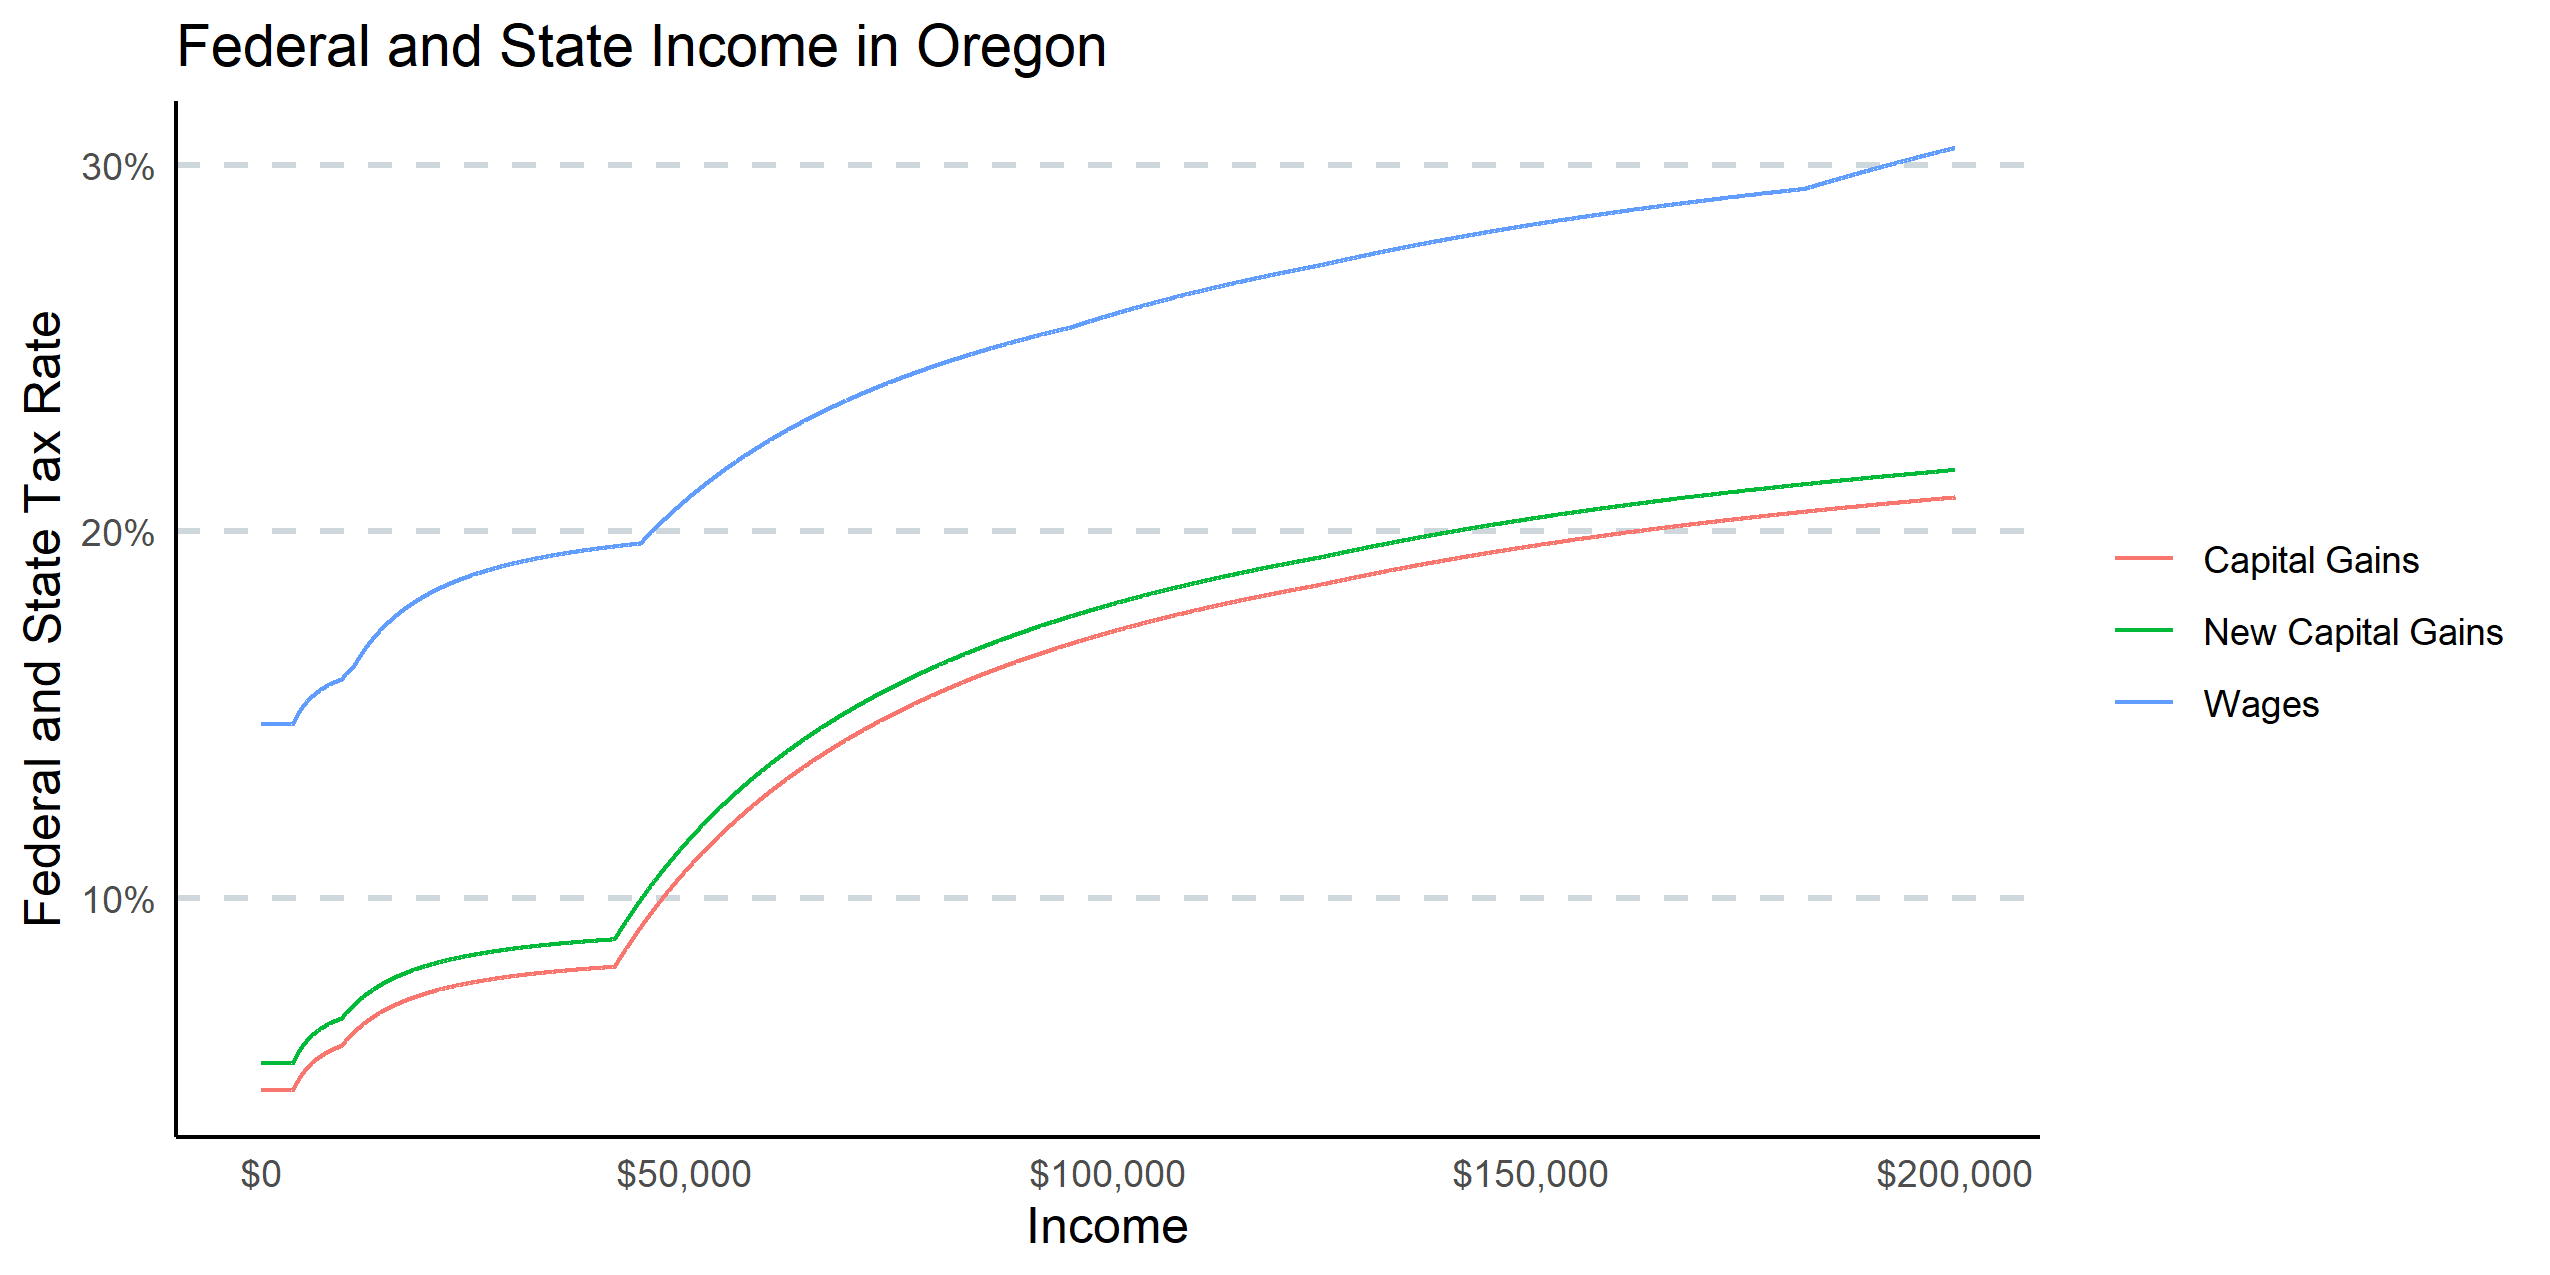
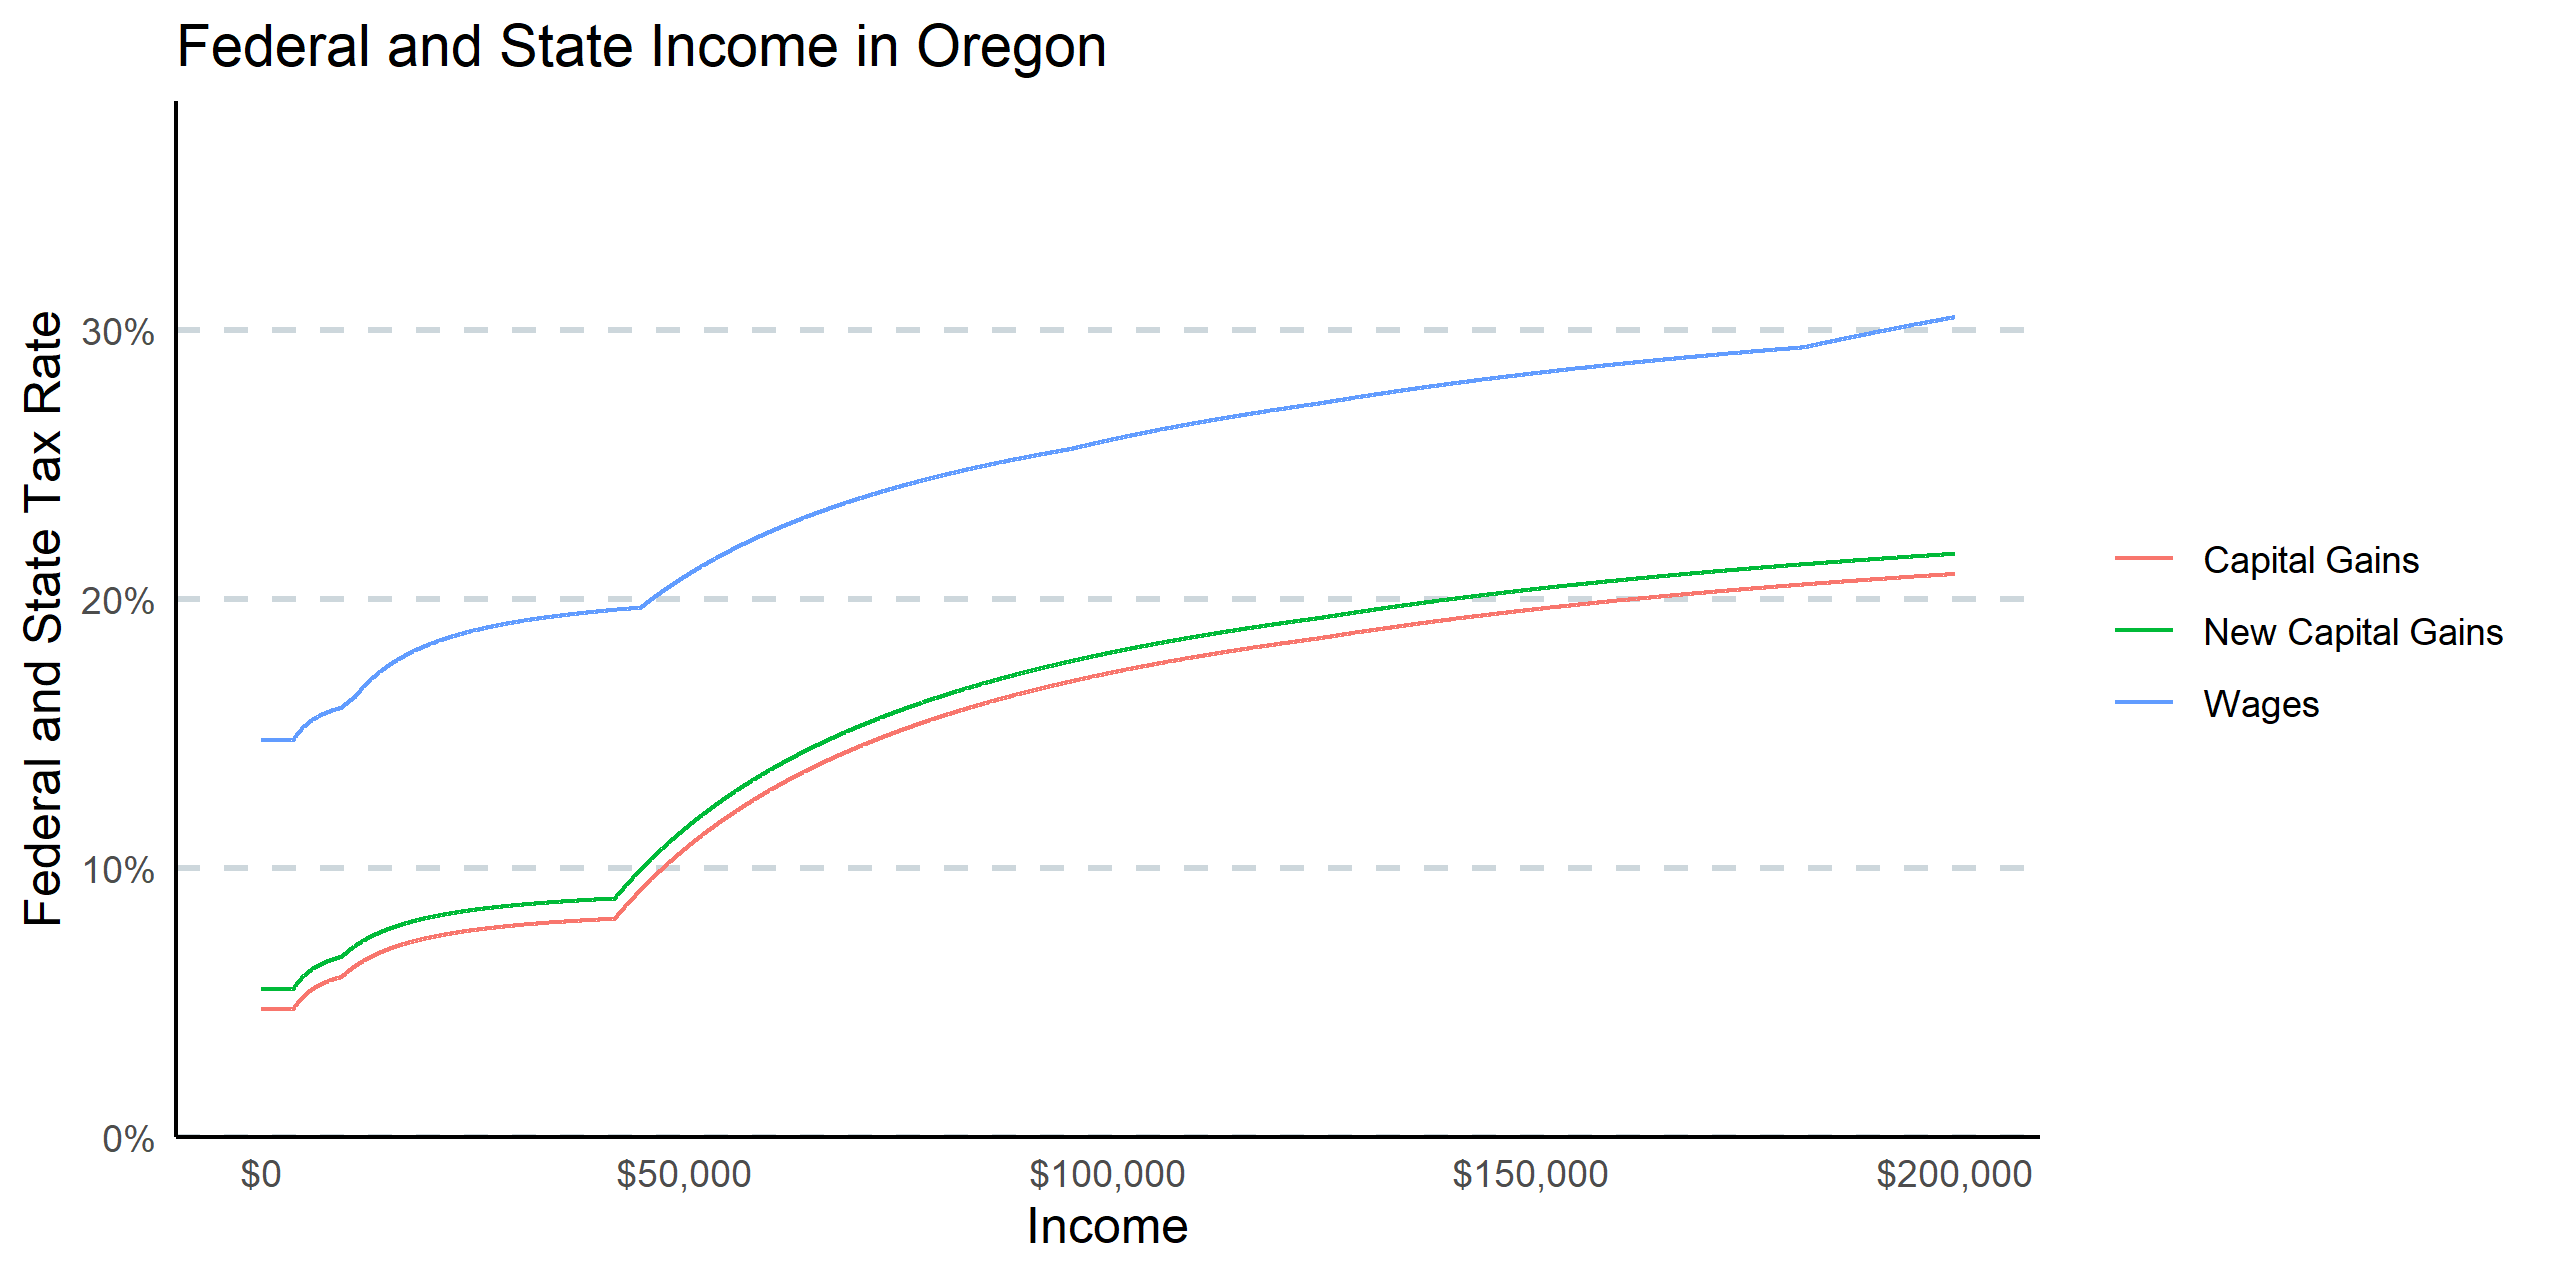
Added 0 to Y axis and added table to readme

diff --git a/README.md b/README.md
@@ -67,3 +67,27 @@ Note here that you see a green line as well. This is created by adding the ERA t
 #### The Graphic
 
 The graphic above is created using R with the `tidyverse` and `here` packages. The percent of income is calculated at each dollar amount that appears on the x-axis. The script is in the `Tax Percent by Tax Brackets.Rmd` file.
+
+Below is a table that shows the graphic at each $10,000 amount to show the side by side comparison on dollars.
+
+|income    |Wages |Capital Gains |New Capital Gains |
+|:---------|:-----|:-------------|:-----------------|
+|\$10,000  |16\%  |6\%           |7\%               |
+|\$20,000  |18\%  |7\%           |8\%               |
+|\$30,000  |19\%  |8\%           |9\%               |
+|\$40,000  |20\%  |8\%           |9\%               |
+|\$50,000  |21\%  |11\%          |11\%              |
+|\$60,000  |22\%  |13\%          |14\%              |
+|\$70,000  |24\%  |14\%          |15\%              |
+|\$80,000  |25\%  |16\%          |16\%              |
+|\$90,000  |25\%  |17\%          |17\%              |
+|\$100,000 |26\%  |17\%          |18\%              |
+|\$110,000 |27\%  |18\%          |19\%              |
+|\$120,000 |27\%  |18\%          |19\%              |
+|\$130,000 |28\%  |19\%          |20\%              |
+|\$140,000 |28\%  |19\%          |20\%              |
+|\$150,000 |28\%  |20\%          |20\%              |
+|\$160,000 |29\%  |20\%          |21\%              |
+|\$170,000 |29\%  |20\%          |21\%              |
+|\$180,000 |29\%  |20\%          |21\%              |
+|\$190,000 |30\%  |21\%          |21\%              |
